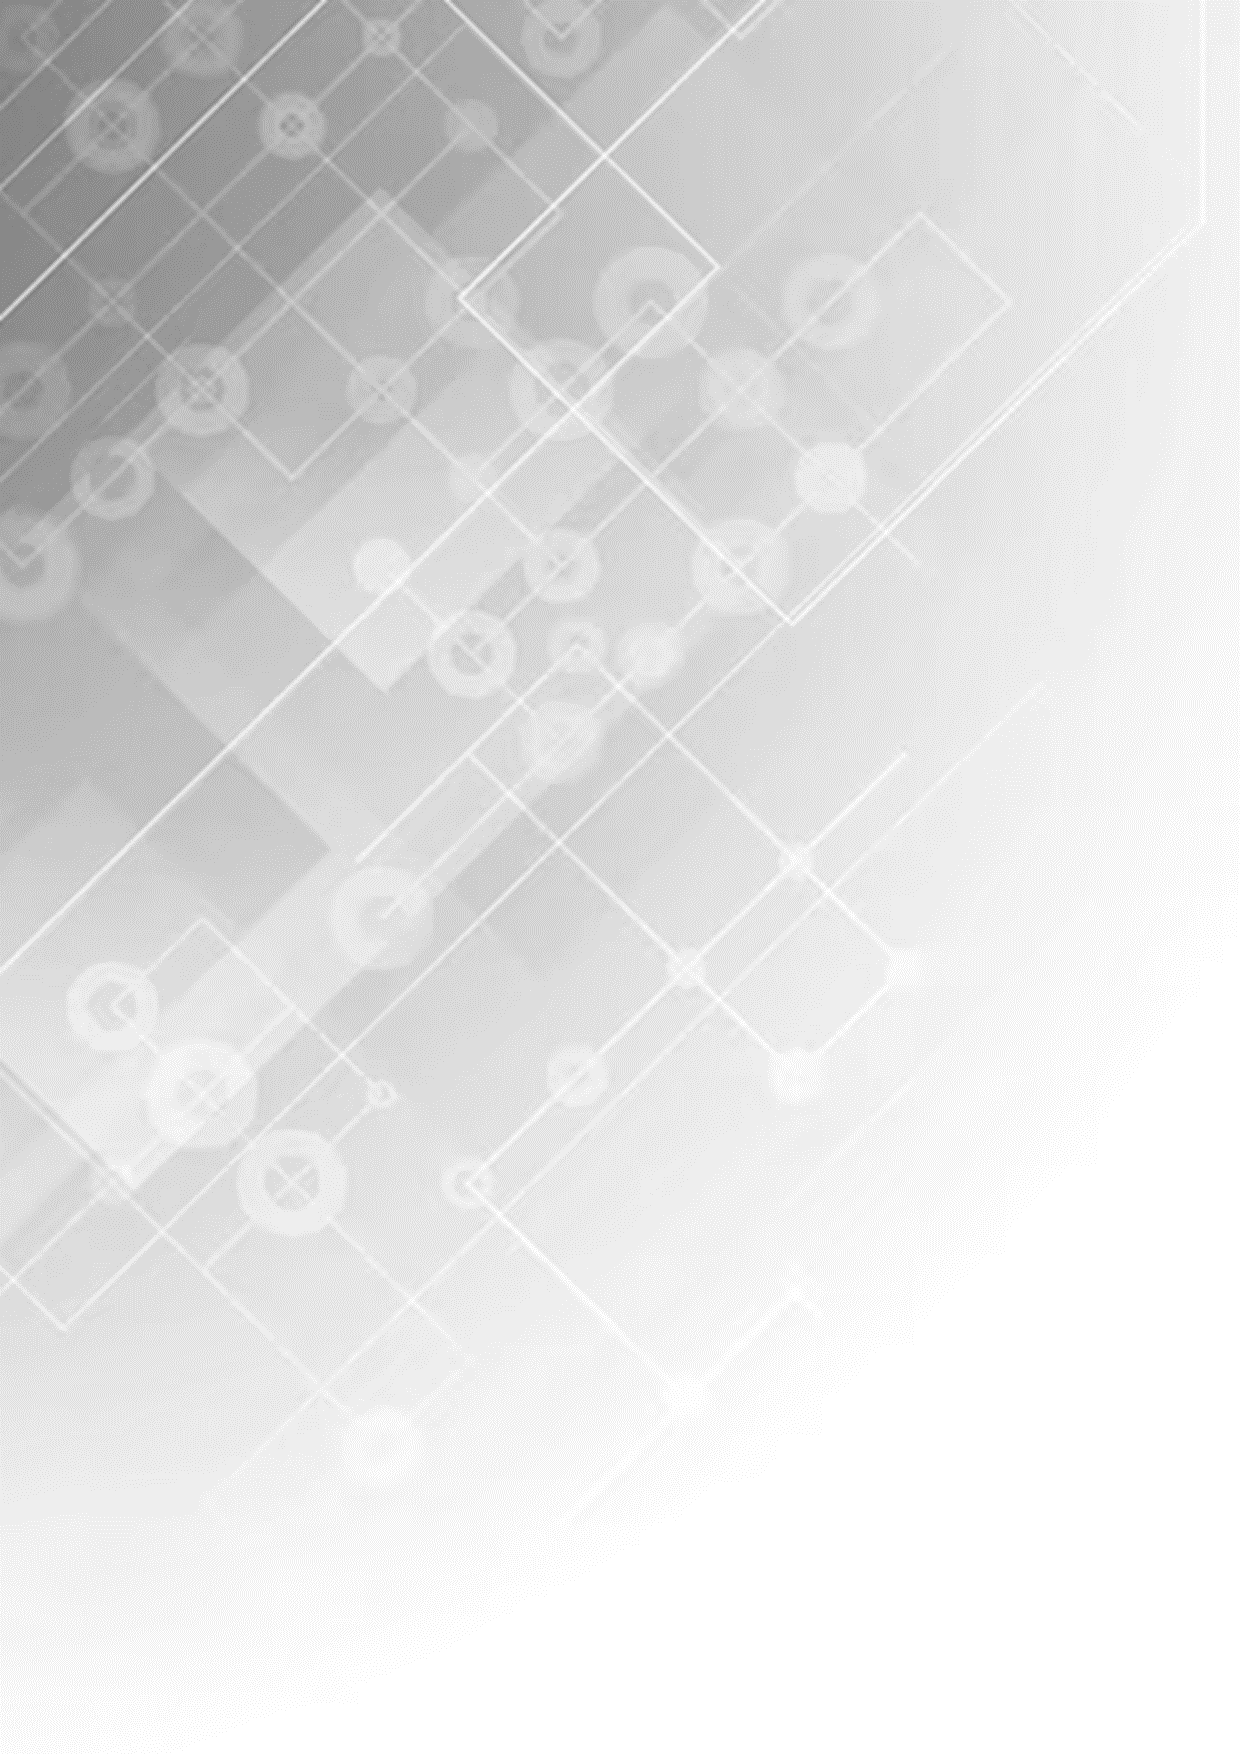
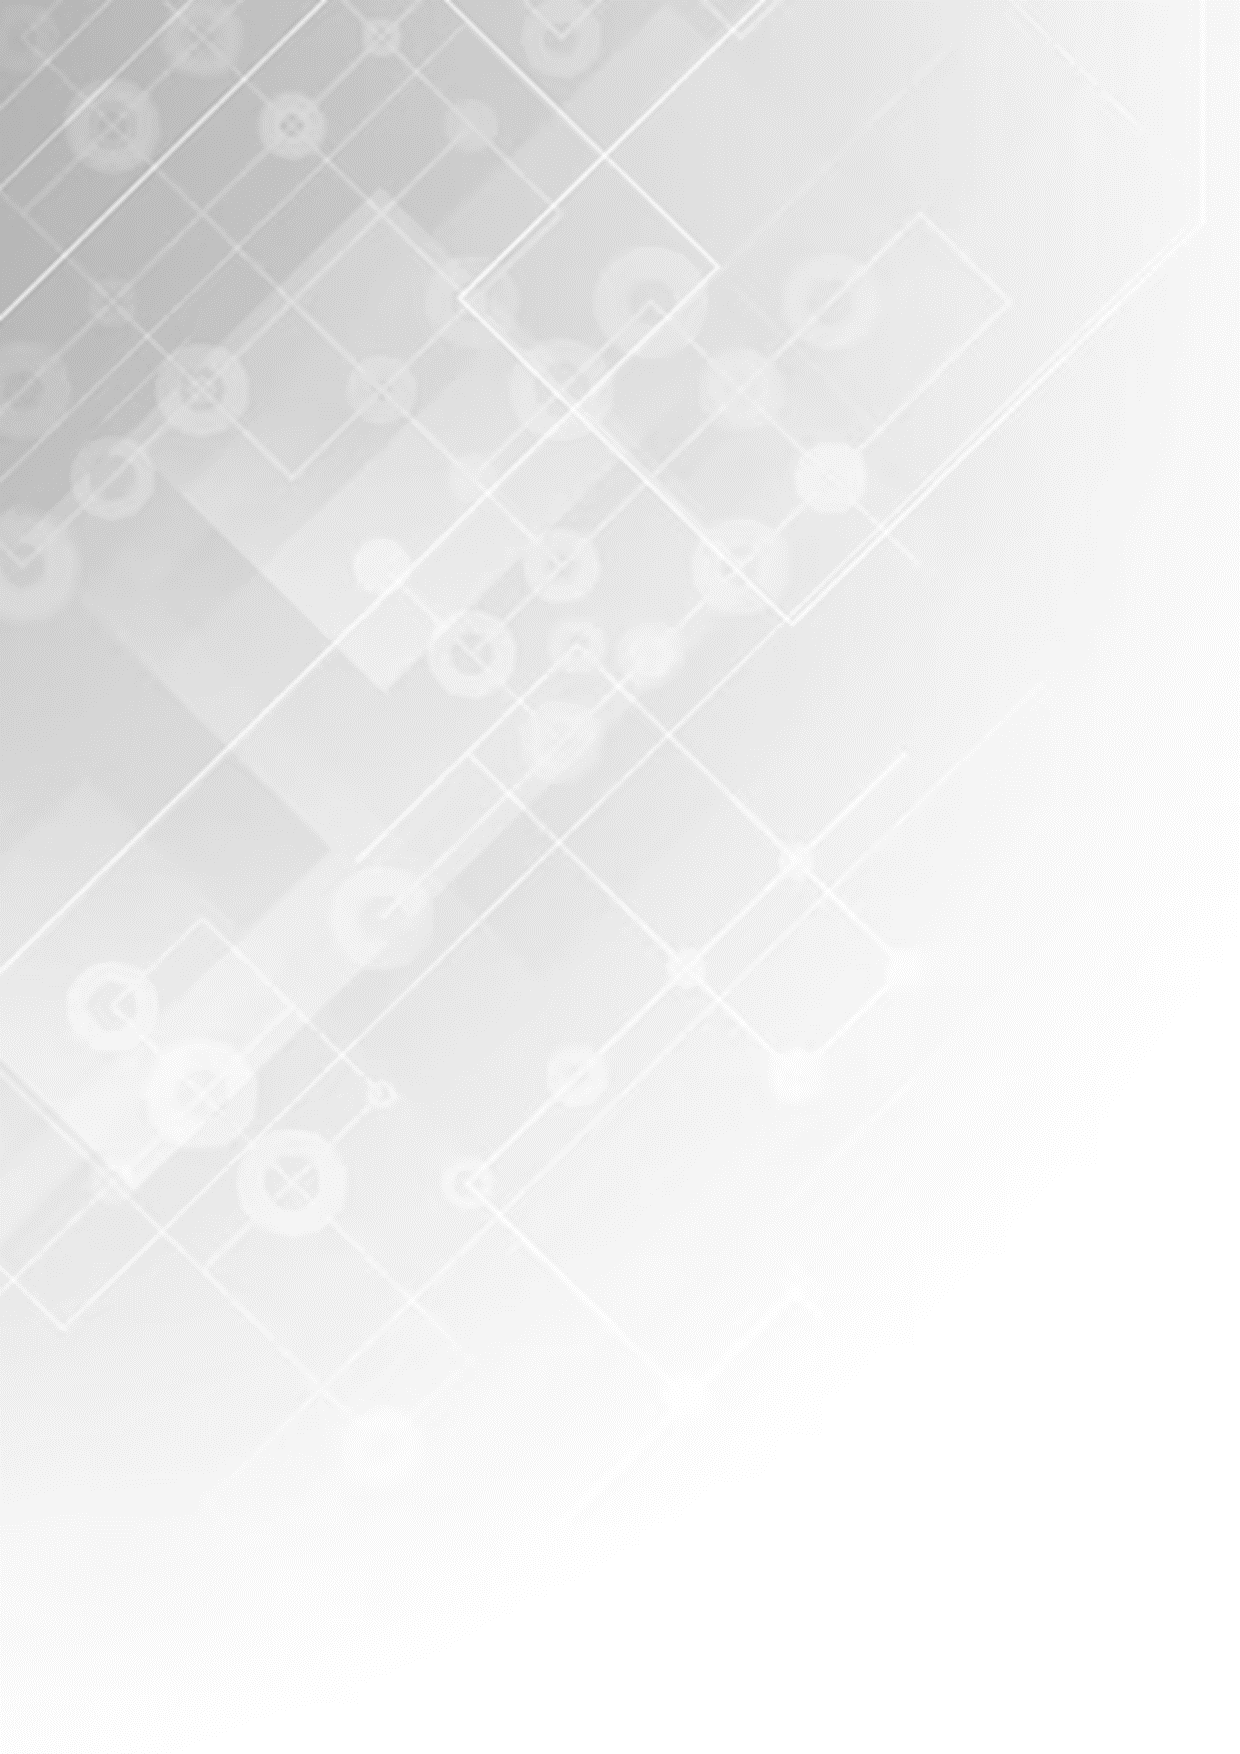
Modifs et ajout du Background de la page

Changed region(s): [[0.0, 0.0, 0.6129, 0.4926]]

diff --git a/index.html b/index.html
@@ -15,18 +15,39 @@
             <section id="cv-left">
 
                 <div id="photo">
-                    <img src="images/profile-picture.jpg" alt="Photo Nicolas Plichon" id="profile-picture">
+                    <img src="./images/profile-picture.jpg" alt="Photo Nicolas Plichon" id="profile-picture">
                 </div>
 
                 <div id="contact">
                     <h2>Contact & Réseaux</h2>
-                    <div>06.71.71.10.16</div>
-                    <div><a href="mailto:nicolas.plichon@gmail.com">nicolas.plichon@gmail.com</a></div>
-                    <div><a href="https://www.linkedin.com/in/nicolas-plichon/" target="_blank">/nicolas.plichon</a></div>
-                    <div><a href="https://nicolas-plichon.github.io/" target="_blank">Portfolio</a></div>
-                    <div><a href="https://github.com/Nicolas-Plichon/" target="_blank">/Nicolas-Plichon</a></div>
-                    <div>Colmar (68)</div>
-                    <div>26 mars 1982</div>
+                    <div class="left-contact-line">
+                        <img src="./images/icon-phone.png" alt="Téléphone Portable" class="contact-icon">
+                       06.71.71.10.16
+                    </div>
+                    <div class="left-contact-line">
+                        <img src="./images/icon-mail.png" alt="Adresse Mail" class="contact-icon">
+                       <a href="mailto:nicolas.plichon@gmail.com">nicolas.plichon@gmail.com</a>
+                    </div>
+                    <div class="left-contact-line">
+                        <img src="./images/icon-linkedin.png" alt="LinkedIn" class="contact-icon">
+                       <a href="https://www.linkedin.com/in/nicolas-plichon/" target="_blank">/nicolas.plichon</a>
+                    </div>
+                    <div class="left-contact-line">
+                        <img src="./images/icon-folio.png" alt="Portfolio" class="contact-icon">
+                       <a href="https://nicolas-plichon.github.io/" target="_self">Portfolio</a>
+                    </div>
+                    <div class="left-contact-line">
+                        <img src="./images/icon-git.png" alt="GitHub" class="contact-icon">
+                       <a href="https://github.com/Nicolas-Plichon/" target="_blank">/Nicolas-Plichon</a>
+                    </div>
+                    <div class="left-contact-line">
+                        <img src="./images/icon-loc.png" alt="Localisation" class="contact-icon">
+                        Colmar (68)
+                    </div>
+                    <div class="left-contact-line">
+                        <img src="./images/icon-date.png" alt="Date de Naissance" class="contact-icon">
+                       26 mars 1982
+                    </div>
                 </div>
 
                 <div id="key-skills">
@@ -60,6 +81,7 @@
                 </div>
 
                 <div id="languages">
+                    <h2>LANGUES</h2>
                     <ul>
                         <li>Bon Niveau</li>
                         <li>Niveau Scolaire</li>

diff --git a/css/styles.css b/css/styles.css
@@ -1,18 +1,30 @@
+body {
+    background: no-repeat url('../images/body-background.avif') fixed;
+    background-size: cover;
+}
+
 main {
     width: 60%;
     margin: auto;
-    border: 2px solid #1A242F;
+    border: 4px solid #1A242F;
+    border-radius: 10px;
+    box-shadow: 8px 6px 4px #374555;
+}
+
+h2 {
+    text-transform: uppercase;
+    border-bottom: 1px solid white;
 }
 
 #cv {
-    background-image: '../images/cv-background.png';
+    background: url('../images/cv-background.png'), hsl(0, 0%, 100%, 90%);
     display: flex;
 }
 
 /* ---------------- Partie Gauche du CV ---------------- */
 #cv-left {
     width: 30%;
-    background-color: #1A242F;
+    background-color: hsl(211, 29%, 14%, 88%);
     font-family: 'Calibri Light';
     color: white;
     padding: 1%;
@@ -34,14 +46,30 @@ main {
     height: 200px;
 }
 
+.left-contact-line {
+    display: flex;
+    margin-bottom: 0.2rem;
+}
+
+.contact-icon {
+    background-color: white;
+    border-radius: 15px;
+    height: 1.2rem;
+    margin-right: 10px;
+}
+
+
 /* ---------------- Partie Droite du CV ---------------- */
 #cv-right {
-    width: 60%;
+    width: 70%;
     padding: 1%;
     font-family: 'Calibri Light';
 }
 
 #name-title {
+    display: flex;
+    flex-direction: column;
+    align-items: center;
     font-family: 'Agency FB', Calibri, 'Trebuchet MS', sans-serif;
     text-transform: uppercase;
     font-size: 1.5rem;
@@ -75,6 +103,7 @@ main {
     font-size: 1.2rem;
     margin-top: 1rem;
     margin-bottom: 0.5rem;
+    border-bottom: 2px solid #1A242F;
 }
 
 .experience-block {
@@ -83,7 +112,7 @@ main {
 }
 
 .dates {
-    width: 25%;
+    width: 20%;
     margin-top: 0.7rem;
 }
 
@@ -98,4 +127,8 @@ main {
 
 .experience-details-title {
     font-size: 1.1rem;
+}
+
+.experience-details {
+    width: 80%;
 }
